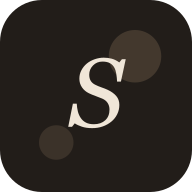
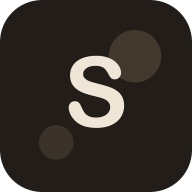
Tipografía: Nunito en toda la app

Changed region(s): [[0.3438, 0.2812, 0.6562, 0.6875], [0.5, 0.5, 0.5625, 0.5312]]

diff --git a/src/app/layout.tsx b/src/app/layout.tsx
@@ -1,9 +1,8 @@
 import type { Metadata, Viewport } from "next";
-import { Manrope, Newsreader } from "next/font/google";
+import { Nunito } from "next/font/google";
 import "./globals.css";
 
-const manrope = Manrope({ variable: "--font-manrope", subsets: ["latin"] });
-const newsreader = Newsreader({ variable: "--font-newsreader", subsets: ["latin"], style: ["normal", "italic"] });
+const nunito = Nunito({ variable: "--font-nunito", subsets: ["latin"] });
 
 export const metadata: Metadata = {
   title: "Sofía",
@@ -21,7 +20,7 @@ export const viewport: Viewport = {
 
 export default function RootLayout({ children }: LayoutProps<"/">) {
   return (
-    <html lang="es-AR" className={`${manrope.variable} ${newsreader.variable} h-full antialiased`}>
+    <html lang="es-AR" className={`${nunito.variable} h-full antialiased`}>
       <body className="min-h-dvh">{children}</body>
     </html>
   );

diff --git a/src/app/globals.css b/src/app/globals.css
@@ -18,8 +18,8 @@
 }
 
 @theme inline {
-  --font-display: var(--font-newsreader), Georgia, serif;
-  --font-sans: var(--font-manrope), system-ui, sans-serif;
+  --font-display: var(--font-nunito), system-ui, sans-serif;
+  --font-sans: var(--font-nunito), system-ui, sans-serif;
 }
 
 html {
@@ -37,9 +37,8 @@ body {
 @layer components {
   .display {
     font-family: var(--font-display);
-    font-style: italic;
-    font-weight: 500;
-    letter-spacing: -0.01em;
+    font-weight: 800;
+    letter-spacing: -0.015em;
   }
   .eyebrow {
     @apply text-[13px] font-semibold uppercase tracking-[0.08em] text-muted;

diff --git a/CLAUDE.md b/CLAUDE.md
@@ -7,7 +7,7 @@ sueño, notas/preguntas para el pediatra, turnos, vacunas (calendario nacional A
 crecimiento y lista de compras. Uso de a dos (la familia); se invita gente desde Ajustes.
 
 - Stack: Next.js 16 (App Router, `src/proxy.ts`), React 19, Tailwind v4, Supabase (Auth, Postgres, Storage), Vercel.
-- Diseño "Nocturna": beige cálido sobre marrón oscuro (tokens en `src/app/globals.css`), títulos Newsreader itálica, texto Manrope. Luces flotantes (`<Orbs/>`) solo en ingreso y alta.
+- Diseño "Nocturna": beige cálido sobre marrón oscuro (tokens en `src/app/globals.css`), tipografía Nunito (títulos 800 vía `.display`, texto 400–700). Luces flotantes (`<Orbs/>`) solo en ingreso y alta.
 - Hora: todo en `America/Argentina/Buenos_Aires` vía `src/lib/time.ts`; nunca `toISOString().slice(0,10)` para fechas.
 - Datos: todo cuelga de `family_id`; RLS con `is_member()`. Registros llevan FK compuesta `(baby_id, family_id)`.
 - Migraciones en `supabase/migrations/`, se aplican a mano en el SQL Editor de Supabase.
